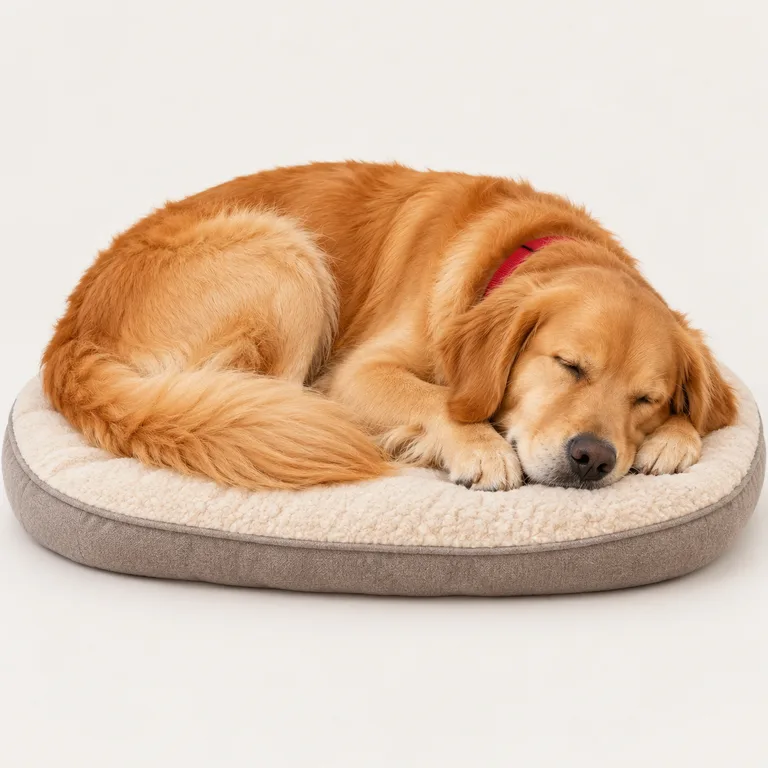
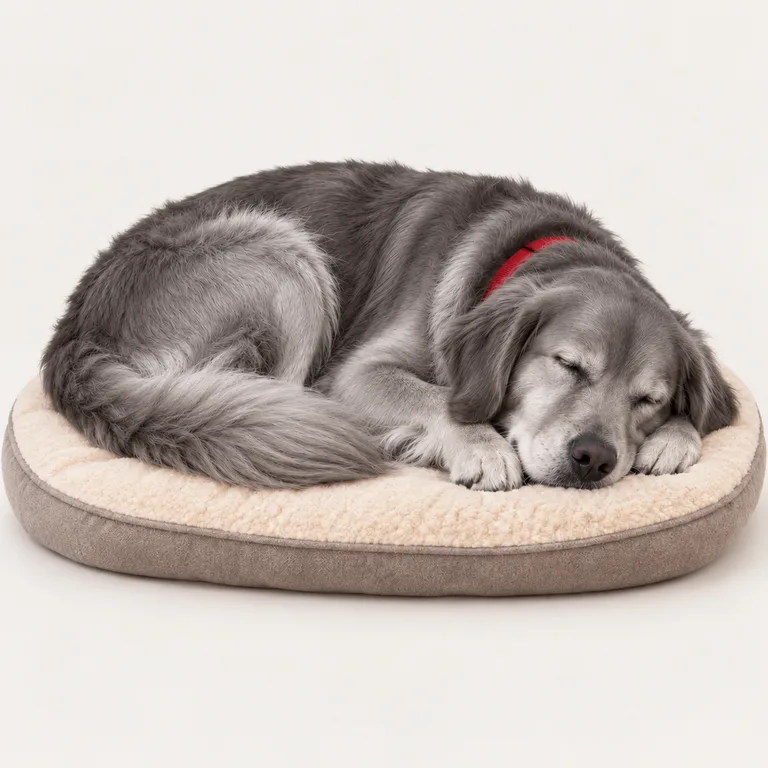
fix: amplia le scelte mobili e distingue il cane

Changed region(s): [[0.0312, 0.1875, 0.9688, 0.6562], [0.75, 0.625, 0.7812, 0.6562]]

diff --git a/app/globals.css b/app/globals.css
@@ -70,9 +70,9 @@ html[data-shape="round"]{--control-radius:24px;--panel-radius:30px}
 
 @media(min-width:761px) and (max-width:1100px){.session-screen .answer-grid.options-4,.session-screen .answer-grid.options-5{grid-template-columns:repeat(3,minmax(0,1fr))}}
 
-@media(max-width:760px){.session-screen>.session-header{min-height:88px;padding:7px 12px;gap:5px}.session-screen .session-header>div:first-child{gap:5px}.session-screen .mode-tag{padding:5px 7px;font-size:8px}.session-screen .session-progress{margin-top:0}.session-screen>.session-body,.session-screen>.article-body{width:calc(100% - 18px);padding:7px 0 4px}.session-screen .answer-grid,.session-screen .options-4,.session-screen .options-5{grid-template-columns:repeat(2,minmax(0,1fr));gap:6px}.session-screen .answer-card{border-radius:15px}.session-screen .answer-card>span{min-height:34px;font-size:13px}.session-screen .article-tray.single{grid-template-columns:minmax(132px,190px)}.session-screen .article-tray.single .article-art{height:clamp(86px,16vh,132px)}.session-screen .article-boxes{gap:7px}.session-screen .article-dropbox{min-height:64px}.session-screen>.help-dock{width:calc(100% - 18px);margin:5px auto 6px;padding:6px 8px}.session-screen .help-actions{width:100%;flex-wrap:nowrap;justify-content:flex-start;overflow-x:auto}.session-screen .help-actions button{min-height:34px;flex:0 0 auto}.session-screen .feedback{bottom:58px}.empty-sequence-manager{grid-template-columns:1fr}}
+@media(max-width:760px){.session-screen>.session-header{min-height:88px;padding:7px 12px;gap:5px}.session-screen .session-header>div:first-child{gap:5px}.session-screen .mode-tag{padding:5px 7px;font-size:8px}.session-screen .session-progress{margin-top:0}.session-screen>.session-body,.session-screen>.article-body{width:calc(100% - 18px);padding:7px 0 4px}.session-screen .answer-grid,.session-screen .options-4,.session-screen .options-5{grid-template-columns:repeat(2,minmax(0,1fr));gap:6px}.session-screen .answer-grid.options-2{width:min(100%,520px);margin-inline:auto;grid-template-columns:minmax(0,1fr);grid-template-rows:repeat(2,minmax(0,1fr))}.session-screen .sentence-answer-grid.options-2{grid-template-columns:minmax(0,1fr)!important}.sentence-answer-grid.options-2 .sentence-answer-card{aspect-ratio:auto}.session-screen .answer-card{border-radius:15px}.session-screen .answer-card>span{min-height:34px;font-size:13px}.session-screen .article-tray.single{grid-template-columns:minmax(132px,190px)}.session-screen .article-tray.single .article-art{height:clamp(86px,16vh,132px)}.session-screen .article-boxes{gap:7px}.session-screen .article-dropbox{min-height:64px}.session-screen>.help-dock{width:calc(100% - 18px);margin:5px auto 6px;padding:6px 8px}.session-screen .help-actions{width:100%;flex-wrap:nowrap;justify-content:flex-start;overflow-x:auto}.session-screen .help-actions button{min-height:34px;flex:0 0 auto}.session-screen .feedback{bottom:58px}.empty-sequence-manager{grid-template-columns:1fr}}
 
-@media(max-width:460px){.session-screen .answer-grid,.session-screen .options-4,.session-screen .options-5{grid-template-columns:repeat(2,minmax(0,1fr))}.session-screen .session-tools{gap:4px!important}.session-screen .session-tools .ghost-button{min-height:38px;padding:0 7px}.session-screen .session-body>h1{font-size:clamp(28px,4.8vh,42px)}.session-screen .article-feedback{font-size:11px}.session-screen .word-category-box span{font-size:clamp(17px,4.5vw,24px)}}
+@media(max-width:460px){.session-screen .answer-grid,.session-screen .options-4,.session-screen .options-5{grid-template-columns:repeat(2,minmax(0,1fr))}.session-screen .answer-grid.options-2{grid-template-columns:minmax(0,1fr)}.session-screen .session-tools{gap:4px!important}.session-screen .session-tools .ghost-button{min-height:38px;padding:0 7px}.session-screen .session-body>h1{font-size:clamp(28px,4.8vh,42px)}.session-screen .article-feedback{font-size:11px}.session-screen .word-category-box span{font-size:clamp(17px,4.5vw,24px)}}
 .admin-role{margin-top:5px;display:flex;align-items:center;gap:7px;color:var(--muted);font-size:9px;font-weight:800;text-transform:uppercase;letter-spacing:.06em}.admin-role select{height:30px;padding:0 26px 0 8px;border:1px solid var(--line);border-radius:9px;background:#fff;color:var(--ink);font-size:10px;font-weight:800;text-transform:none;letter-spacing:0}
 
 .public-preview-shell{min-height:100dvh;background:var(--canvas)}.public-preview-shell .session-screen{height:100dvh;min-height:100dvh}.public-preview-shell .session-body,.public-preview-shell .article-body{height:calc(100dvh - 76px)}.public-preview-error{grid-template-columns:minmax(320px,520px)}

diff --git a/tests/mobile-two-options-layout.test.ts b/tests/mobile-two-options-layout.test.ts
@@ -1,0 +1,10 @@
+import assert from "node:assert/strict";
+import { readFileSync } from "node:fs";
+import test from "node:test";
+
+test("su mobile due risposte standard sono impilate senza modificare IL/LA", () => {
+  const css = readFileSync(new URL("../app/globals.css", import.meta.url), "utf8");
+  assert.match(css, /@media\(max-width:760px\)[\s\S]*?\.session-screen \.answer-grid\.options-2\{[^}]*grid-template-columns:minmax\(0,1fr\)/);
+  assert.match(css, /\.session-screen \.sentence-answer-grid\.options-2\{grid-template-columns:minmax\(0,1fr\)!important\}/);
+  assert.doesNotMatch(css, /\.article-boxes\.options-2/);
+});

diff --git a/public/sw.js b/public/sw.js
@@ -1,4 +1,4 @@
-const CACHE_NAME = "lettura-globale-v19";
+const CACHE_NAME = "lettura-globale-v20";
 const APP_SHELL = ["/", "/manifest.webmanifest", "/lettura-globale-icon-v2.png"];
 
 async function fetchWithTimeout(request, timeoutMs = 5000) {

diff --git a/PROGRESS.md b/PROGRESS.md
@@ -8,6 +8,7 @@
 
 ## Completato
 
+- [x] Su mobile le attività standard con due risposte mostrano le immagini una sotto l’altra per massimizzarne l’area; `IL / LA` conserva la propria disposizione dedicata. Le cinque scene del cane nel catalogo frasi usano ora un mantello grigio, distinguibile dal gatto rosso, mantenendo azioni e stile fotografico coerenti.
 - [x] Secondo blocco di hardening: PIN nuovi in PBKDF2 versionato con compatibilità SHA-256, rate limit D1 per email e rete (5 errori/15 minuti con blocco progressivo), rimozione del fallback in chiaro e migrazione `0014` forward-only.
 - [x] Link pubblici con scadenza a 30 giorni, revoca dal pannello Configurazione, controllo uniforme anche sui media, cache disabilitata e pulizia opportunistica degli snapshot non più attivi.
 - [x] Letture dello stato ridotte per profilo: PIN altrui rimossi, bambini e dati operativi limitati alle associazioni, storico del terapista limitato alle sessioni condotte e fallback completo riservato all’amministratore.
